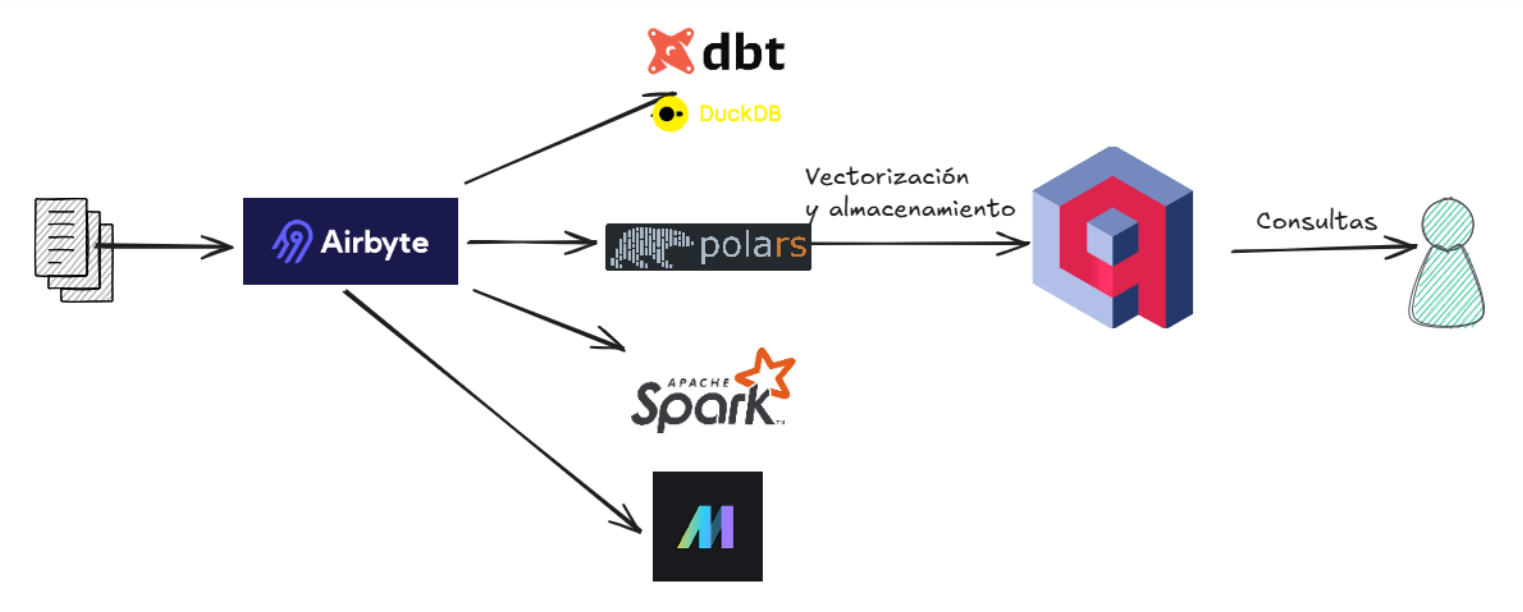
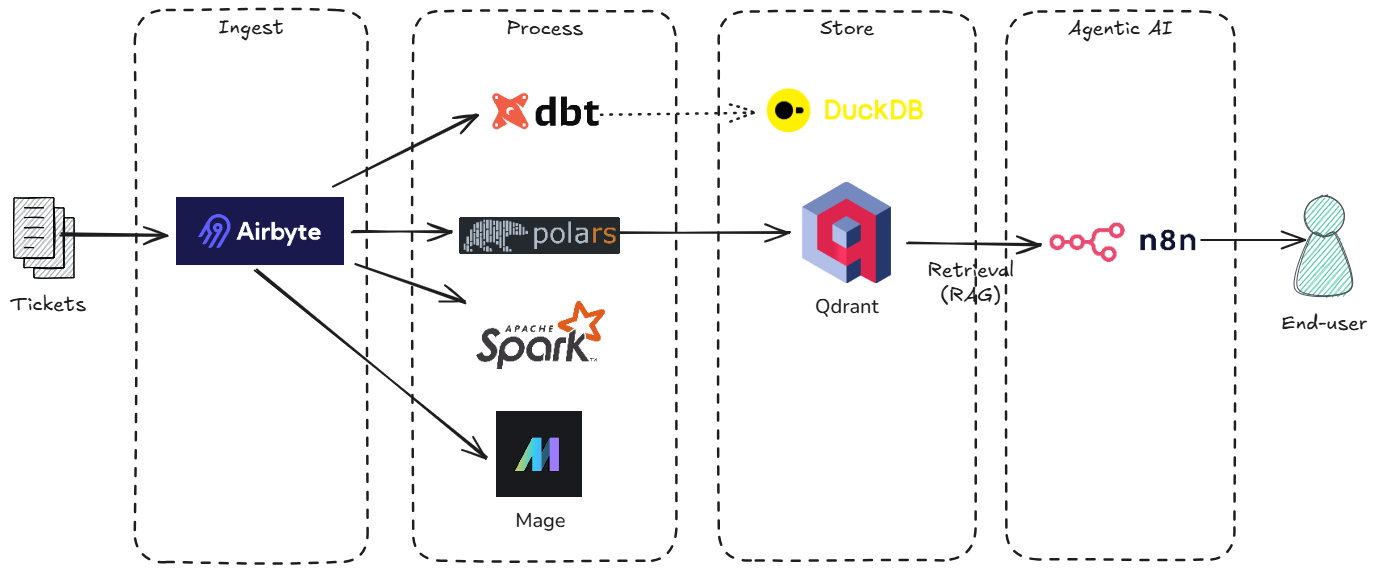
Updated architecture and fixed main README.

diff --git a/README.md b/README.md
@@ -4,35 +4,40 @@
 This repository contains hands-on exercises for the "State of the Art Tools for Big Data" course at UPV's master *Inteligencia Artificial & Big Data Analytics*. The course provides practical experience with cutting-edge Big Data technologies and industry-leading tools.
 
 Throughout this course, you will learn to:
-- **Ingest data** using Airbyte
-- **Orchestrate workflows** using Mage AI
-- **Process data** using Apache Spark SQL
-- **Perform single-node processing** using Polars and store data in DuckDB
-- **Transform data** using dbt
-- **Implement semantic search** by storing data in Qdrant vector databases
-
+- **Ingest data** using [Airbyte](https://airbyte.com/)
+- **Orchestrate workflows** using [Mage AI](https://www.mage.ai/)
+- **Process data** using [Apache Spark SQL](https://spark.apache.org/sql/)
+- **Perform single-node processing** using [Polars](https://pola.rs/) and store data in [DuckDB](https://duckdb.org/)
+- **Transform data** using [dbt](https://www.getdbt.com/)
+- **Implement semantic search** by storing data in [Qdrant](https://qdrant.tech/) vector databases
+- **Develop a chatbot** using [n8n](https://n8n.io/)
 
 ![Architecture Diagram](./img/architecture.png)
 
+Each session will cover some of the technologies and has its own exercises:
+
+* **Session 1: Data Ingestion and Spark SQL**:
+  * Technologies: Airbyte, Mage and SparkSQL
+  * [Exercises](exercises/session_1)
+* **Session 2: Single-node processing**:
+  * Technologies: Airbyte, Mage and SparkSQL
+  * [Exercises](exercises/session_2)
+* **Session 3: dbt**:
+  * Technologies: Airbyte, Mage and SparkSQL
+  * [Exercises](exercises/session_3)
+* **Session 4: Vector databases**:
+  * Technologies: Airbyte, Mage and SparkSQL
+  * [Exercises](exercises/session_4)
 
 ## 🚀 Setup Instructions
 
 ### Software Requirements
 
-* Docker
-* Python
-* Visual Studio Code
+* Docker (https://docs.docker.com/desktop/)
+* Python (https://www.python.org/downloads/)
+* Visual Studio Code (https://code.visualstudio.com/docs/setup/setup-overview)
 
 ### Initial Setup
 
 1. Clone this repository
-2. Change to the newly created folder
-3. Install Airbyte for local use by following the [Airbyte Quickstart Guide](https://docs.airbyte.com/platform/using-airbyte/getting-started/oss-quickstart)
-4. Download the latest version of the image files
-   ```bash
-   docker compose pull
-   ```
-5. (Option) Launch all services
-   ```bash
-   docker compose up -d
-   ```
+1. Each exercise has its own docker compose (if required). Change to that folder and follow the instructions.
